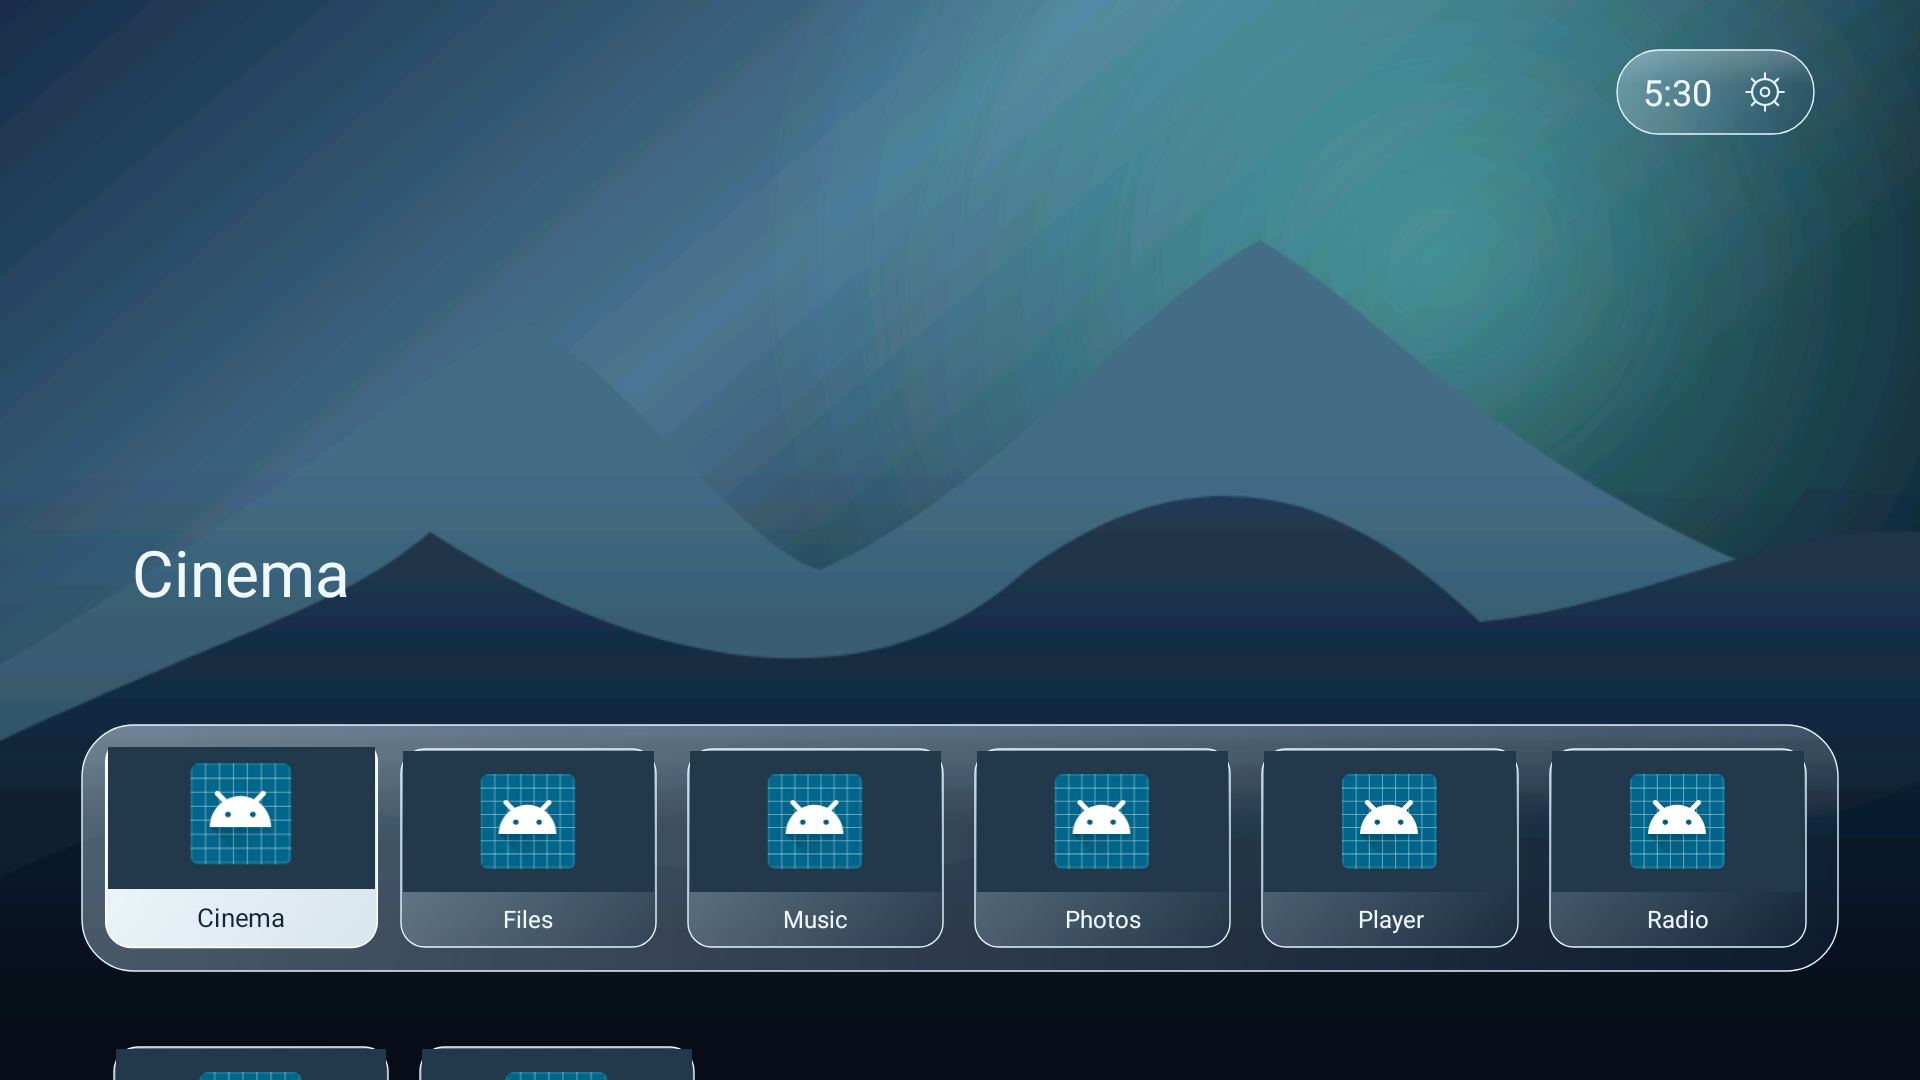
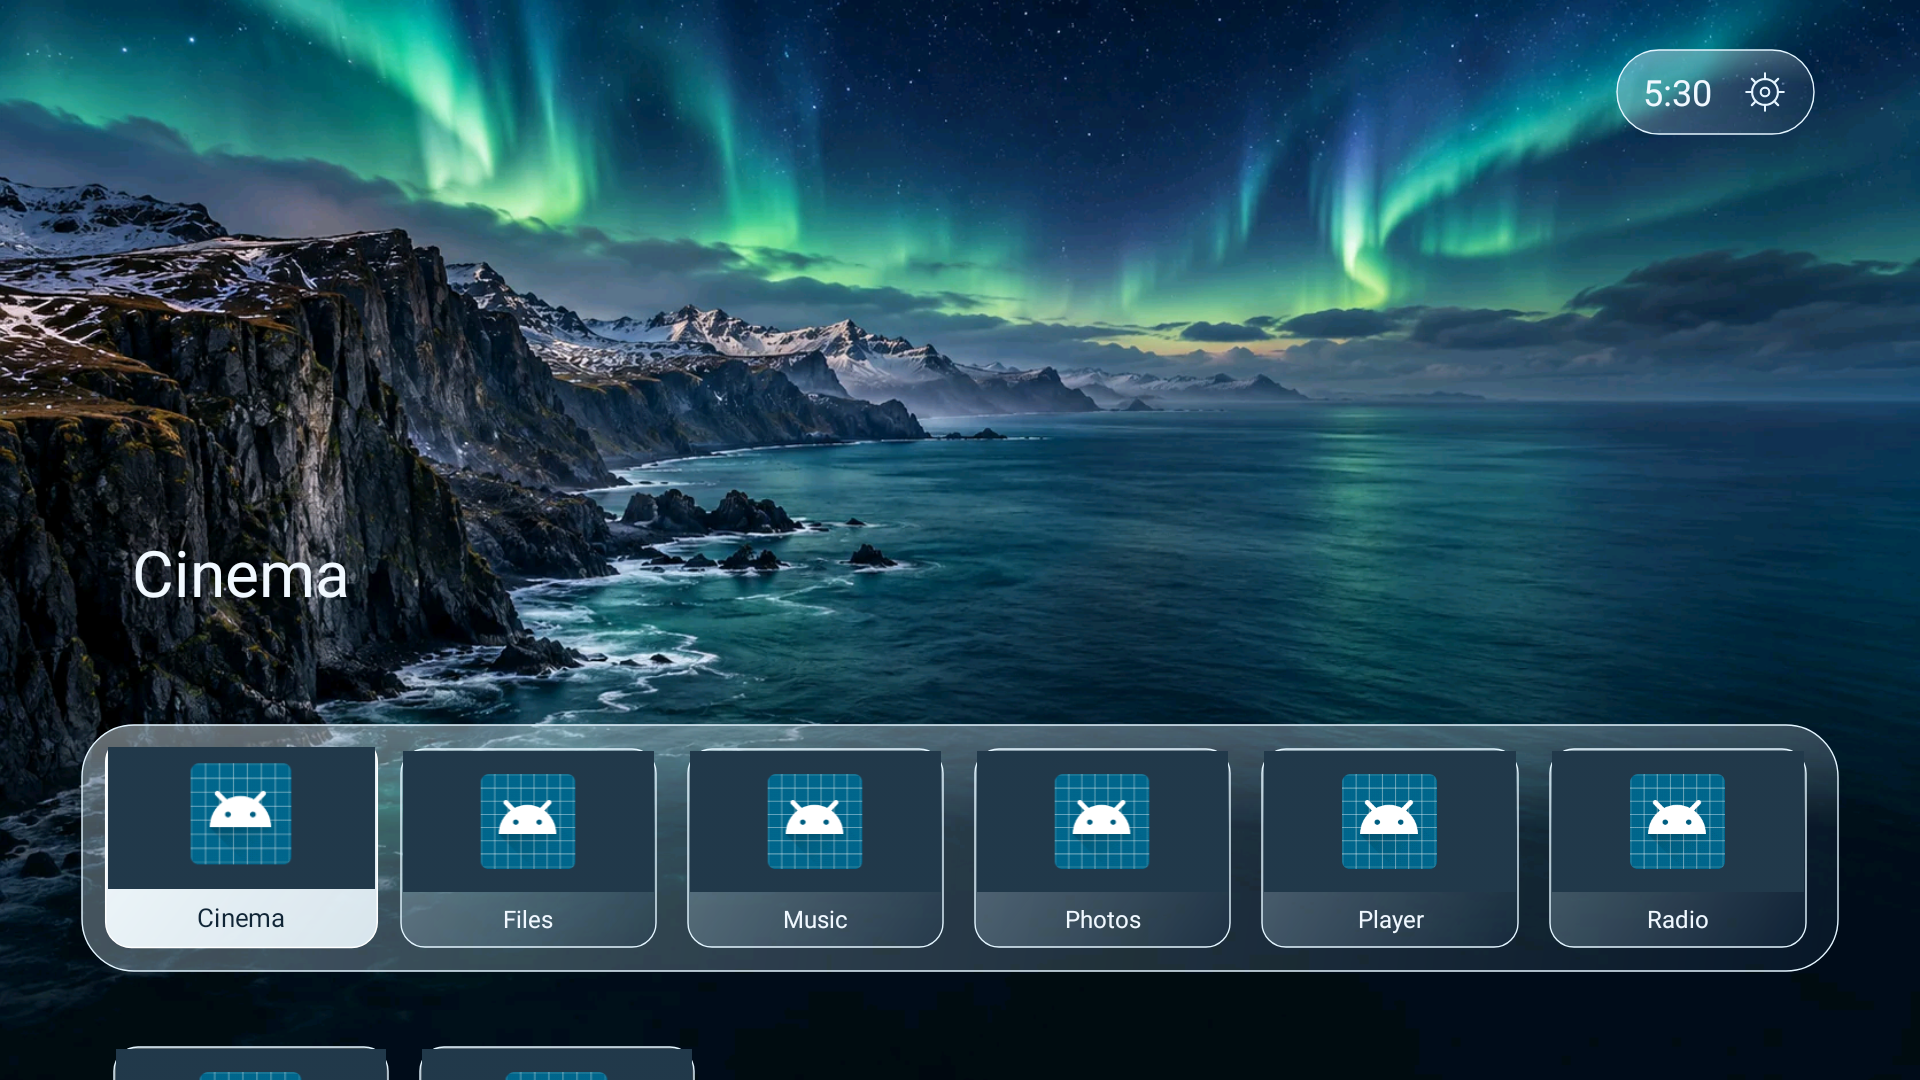
Add original cinematic wallpaper collection

diff --git a/app/src/main/java/com/tvos/launcher/BackdropView.java b/app/src/main/java/com/tvos/launcher/BackdropView.java
@@ -7,10 +7,11 @@ import android.view.View;
 import java.io.InputStream;
 import java.util.Random;
 
-/** Original procedural landscape, rasterized once per layout and preference change. */
+/** Static artwork decoded once per layout/preference change; procedural fallback stays offline. */
 final class BackdropView extends View {
     private Bitmap texture;
     private final Paint sampling = new Paint(Paint.FILTER_BITMAP_FLAG);
+    private final Rect source = new Rect(), destination = new Rect();
     private String selection, image;
     BackdropView(Context c) { super(c); setImportantForAccessibility(IMPORTANT_FOR_ACCESSIBILITY_NO); }
     void refresh() { selection = null; invalidate(); }
@@ -19,9 +20,15 @@ final class BackdropView extends View {
         Preferences prefs = new Preferences(getContext());
         if (!prefs.backdrop().equals(selection) || !prefs.image().equals(image) || texture == null) {
             selection = prefs.backdrop(); image = prefs.image();
-            texture = build(Math.max(1, Math.min(getWidth(), 960)), Math.max(1, Math.min(getHeight(), 540)));
+            texture = build(Math.max(1, Math.min(getWidth(), 1920)), Math.max(1, Math.min(getHeight(), 1080)));
+            int w=texture.getWidth(), h=texture.getHeight();
+            float scale=Math.max(getWidth()/(float)w,getHeight()/(float)h);
+            int cropW=Math.min(w,Math.max(1,Math.round(getWidth()/scale)));
+            int cropH=Math.min(h,Math.max(1,Math.round(getHeight()/scale)));
+            source.set((w-cropW)/2,(h-cropH)/2,(w+cropW)/2,(h+cropH)/2);
+            destination.set(0,0,getWidth(),getHeight());
         }
-        canvas.drawBitmap(texture, null, new Rect(0,0,getWidth(),getHeight()), sampling);
+        canvas.drawBitmap(texture, source, destination, sampling);
     }
     private Bitmap build(int width,int height) {
         if ("photo".equals(selection) && !image.isEmpty()) {
@@ -34,6 +41,15 @@ final class BackdropView extends View {
                     Bitmap result=BitmapFactory.decodeStream(in,null,size); if(result!=null)return result;
                 }
             }catch(Exception ignored){ /* A revoked or removed image falls back to the built-in scenery. */ }
+        }
+        if (!"black".equals(selection)) {
+            int artwork="dawn".equals(selection)?R.drawable.wallpaper_dawn:
+                    "night".equals(selection)?R.drawable.wallpaper_night:R.drawable.wallpaper_aurora;
+            BitmapFactory.Options options=new BitmapFactory.Options();
+            options.inPreferredConfig=Bitmap.Config.RGB_565;
+            options.inScaled=false;
+            Bitmap result=BitmapFactory.decodeResource(getResources(),artwork,options);
+            if(result!=null)return result;
         }
         Bitmap bitmap=Bitmap.createBitmap(width,height,Bitmap.Config.RGB_565);
         Canvas c=new Canvas(bitmap);c.scale(width/960f,height/540f);

diff --git a/app/src/main/java/com/tvos/launcher/SettingsActivity.java b/app/src/main/java/com/tvos/launcher/SettingsActivity.java
@@ -54,8 +54,8 @@ public final class SettingsActivity extends Activity {
         }
         page.restore(focused);
     }
-    private String backgroundName(){return switch(prefs.backdrop()){case "dawn"->"Dawn";case "night"->"Night";case "black"->"Solid black";case "photo"->"Local photo";default->"Aurora";};}
-    private void chooseBackground(){String[] modes={"aurora","dawn","night","black"};int index=Arrays.asList(modes).indexOf(prefs.backdrop());pick("Background",new String[]{"Aurora","Dawn","Night","Solid black"},Math.max(0,index),k->{prefs.text("backdrop",modes[k]);draw();});}
+    private String backgroundName(){return switch(prefs.backdrop()){case "dawn"->"Desert Dawn";case "night"->"Alpine Night";case "black"->"Solid black";case "photo"->"Local photo";default->"Aurora Coast";};}
+    private void chooseBackground(){String[] modes={"aurora","dawn","night","black"};int index=Arrays.asList(modes).indexOf(prefs.backdrop());pick("Background",new String[]{"Aurora Coast","Desert Dawn","Alpine Night","Solid black"},Math.max(0,index),k->{prefs.text("backdrop",modes[k]);draw();});}
     private void pick(String title,String[] names,int current,java.util.function.IntConsumer action){new AlertDialog.Builder(this).setTitle(title).setSingleChoiceItems(names,current,(d,n)->{d.dismiss();action.accept(n);}).setNegativeButton(android.R.string.cancel,null).show();}
     private String startupName(){String pkg=prefs.data.getString("startup","");if(pkg.isEmpty())return "None";try{return getPackageManager().getApplicationLabel(getPackageManager().getApplicationInfo(pkg,0)).toString();}catch(android.content.pm.PackageManager.NameNotFoundException e){return "App unavailable";}}
     private void chooseStartup(){List<AppCatalog.Entry> apps=AppCatalog.load(this,false);String[] names=new String[apps.size()+1];names[0]="None";int selected=0;for(int i=0;i<apps.size();i++){names[i+1]=apps.get(i).label;if(apps.get(i).id.equals(prefs.data.getString("startup","")))selected=i+1;}pick("Startup app",names,selected,n->{prefs.text("startup",n==0?"":apps.get(n-1).id);prefs.data.edit().putInt("startup.boot",Settings.Global.getInt(getContentResolver(),Settings.Global.BOOT_COUNT,-1)).apply();draw();});}

diff --git a/app/src/test/java/com/tvos/launcher/RenderingTest.java b/app/src/test/java/com/tvos/launcher/RenderingTest.java
@@ -34,6 +34,11 @@ public class RenderingTest {
         DemoApps.install(RuntimeEnvironment.getApplication());
         assertEquals(8,AppCatalog.load(RuntimeEnvironment.getApplication(),false).size());
         try(ActivityController<HomeActivity> c=Robolectric.buildActivity(HomeActivity.class).setup().visible()){capture(c.get(),"home-demo-apps");}
+        for(String backdrop:new String[]{"dawn","night"}){
+            new Preferences(RuntimeEnvironment.getApplication()).text("backdrop",backdrop);
+            try(ActivityController<HomeActivity> c=Robolectric.buildActivity(HomeActivity.class).setup().visible()){capture(c.get(),"home-"+backdrop);}
+        }
+        new Preferences(RuntimeEnvironment.getApplication()).text("backdrop","aurora");
         try(ActivityController<ControlCenterActivity> c=Robolectric.buildActivity(ControlCenterActivity.class).setup().visible()){capture(c.get(),"control-center");}
     }
     private void capture(Activity activity,String name) throws IOException {

diff --git a/audit.py b/audit.py
@@ -32,7 +32,7 @@ for apk in apks:
     with zipfile.ZipFile(apk) as archive:
         assert 'assets/licenses/LICENSE.txt' in archive.namelist()
         assert not any(p.endswith('.so') for p in archive.namelist())
-    assert apk.stat().st_size < 250 * 1024, 'Preview exceeded the 250 KiB size budget'
+    assert apk.stat().st_size < 1024 * 1024, 'APK exceeded the 1 MiB artwork size budget'
     records.append({'file': name, 'application_id': expected, 'signed': signed,
                     'bytes': apk.stat().st_size, 'sha256': hashlib.sha256(apk.read_bytes()).hexdigest(),
                     'certificate': result.stdout.strip() if signed else 'Unsigned build artifact'})

diff --git a/docs/ARTWORK.md b/docs/ARTWORK.md
@@ -1,0 +1,31 @@
+# Wallpaper artwork
+
+Created for this project using the built-in OpenAI image generation tool. These are AI-generated landscapes, not photographs documenting real locations. No existing Apple wallpaper was supplied or copied. App icons and banners still come from installed apps.
+
+Three original PNG masters are 1672 × 941 pixels. The app includes quality-86 WebP copies without upscaling. The compressed set totals approximately 415 KiB. Runtime decoding uses RGB565 and center-crops to the screen while preserving the image aspect ratio; a wallpaper is static between preference/layout changes. Solid black and user-selected local photos remain available.
+
+## Prompt set
+
+Each scene used this shared specification, with its scene description inserted after “Primary request”.
+
+> Use case: photorealistic-natural. Asset type: original premium Android television launcher wallpaper, landscape 16:9, requested 3840 x 2160 resolution if supported. Primary request: [scene]. Composition: immersive edge-to-edge panoramic environment, visual interest in the upper two-thirds, quiet dark lower 30 percent reserved for an app dock, no abrupt highlights at bottom or upper-right clock area. Style: exceptionally polished photographic realism, natural light and material detail, smooth gradients, rich but controlled dynamic range, elegant luxury TV wallpaper. Constraints: artwork only, absolutely no text, labels, logos, icons, UI, framing, watermarks, collage or devices. Create an original scene, do not reproduce an existing wallpaper.
+
+The requested size was advisory; the actual generated output is 1672 × 941, not 4K.
+
+### Aurora Coast
+
+a spectacular remote northern coastline seen from a high aerial perspective, sweeping dark sculptural cliffs on the left, still deep teal ocean opening toward the right, delicate luminous green and cyan aurora ribbons across a midnight navy sky, subtle atmospheric haze, sophisticated restrained colors, realistic intricate rock and water textures
+
+### Desert Dawn
+
+an immense pristine desert of sculptural sand dunes at first sunrise, sweeping elegant S curves, warm peach and rose gold light on dune crests, deep mauve and indigo shadow valleys, distant atmospheric layers under a soft lavender sky, sophisticated fine natural sand texture, cinematic fine art aerial landscape photography
+
+### Alpine Night
+
+a pristine alpine lake at blue hour beneath majestic jagged mountain peaks, mountains softly lit by distant moonlight, deep cobalt and slate blue palette, a subtle star field and faint mist over glassy still water, luminous restrained horizon, meticulous natural rock detail, cinematic fine art landscape photography
+
+## Files
+
+- `app/src/main/res/drawable-nodpi/wallpaper_aurora.webp`
+- `app/src/main/res/drawable-nodpi/wallpaper_dawn.webp`
+- `app/src/main/res/drawable-nodpi/wallpaper_night.webp`

diff --git a/README.md b/README.md
@@ -2,7 +2,7 @@
 
 An independent, native Android TV launcher with a floating app dock, original scenery and a translucent glass interface. The app is named **tvOS**; it is an Android launcher, not Apple's operating system or an Apple product.
 
-**1.0.0 community preview · Android 8.0/API 26+ · No production library dependencies**
+**1.0.1 community preview · Android 8.0/API 26+ · No production library dependencies**
 
 ![Home with sample installed apps](docs/images/home.png)
 
@@ -15,11 +15,13 @@ The screenshots render the actual app views using Android framework simulation a
 - TV Apps and All Apps views, populated from launchable apps installed on the device.
 - Floating clock/gear capsule: OK opens Control Center; hold OK opens Settings.
 - Layered glass surfaces with a soft sheen, thin edge lighting and three finish strengths. There is no continuous backdrop blur or video loop.
-- Original Aurora, Dawn and Night scenery, solid black, or a local photo selected through Android's document picker.
+- Original AI-generated Aurora Coast, Desert Dawn and Alpine Night wallpapers, solid black, or a local photo selected through Android's document picker.
 - Home preferences, reduce-motion controls, once-per-boot startup app, clock screen saver and optional inactivity timeout.
 - Native network, Wi-Fi, Bluetooth, audio, display, storage and app-information panels. Protected operations have an explicit Android-settings button.
 
 ![Control Center](docs/images/control-center.png)
+
+The three bundled wallpapers are original AI-generated artwork, compressed as WebP at their native 1672 × 941 resolution. They are decoded once per view/background change, with no continuous animation or network downloads. See [artwork details and prompts](docs/ARTWORK.md).
 
 ## Install
 
